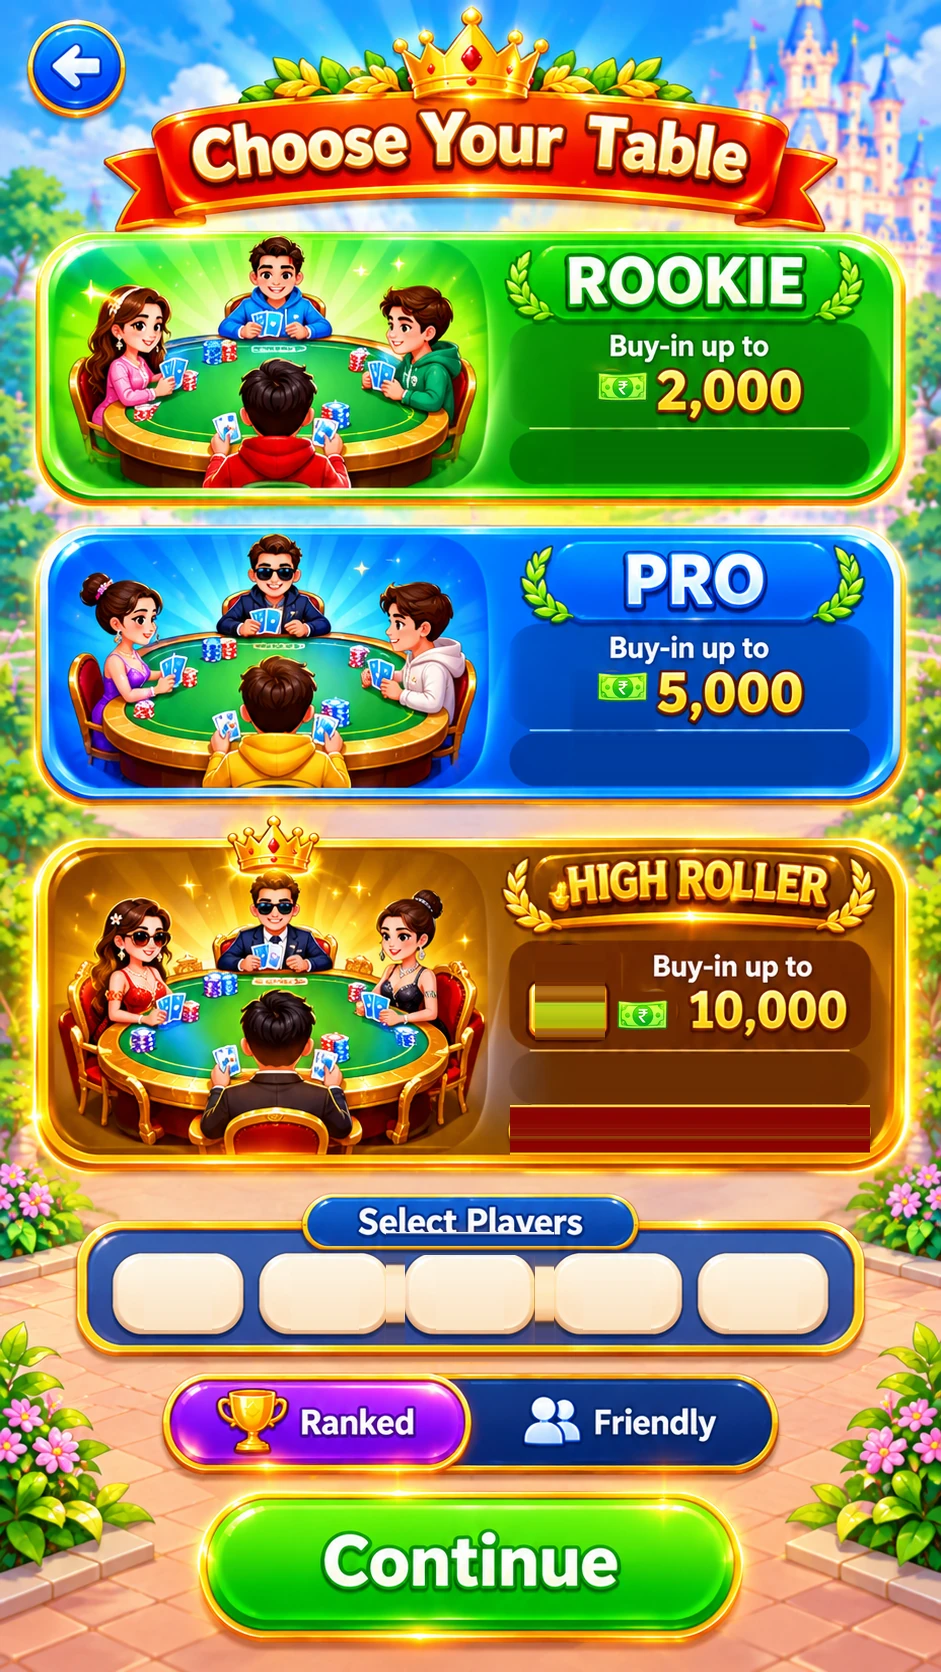
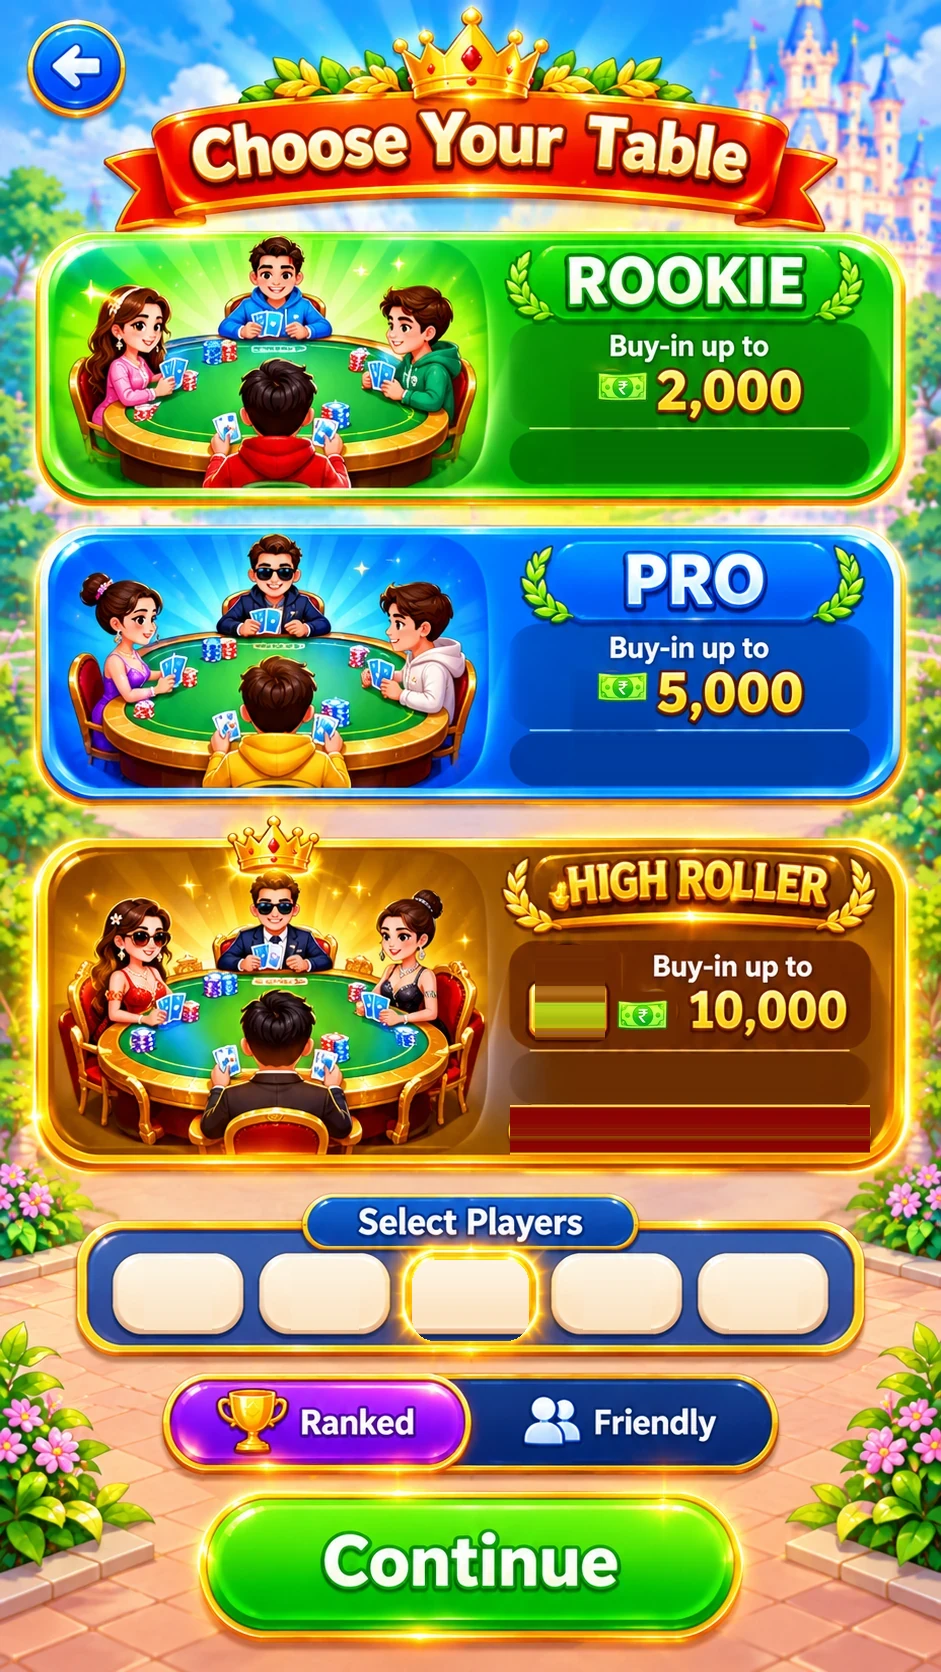
Cover scaling, clean player row, pro pill below the count

Changed region(s): [[0.4006, 0.7153, 0.5855, 0.8397]]

diff --git a/index.html b/index.html
@@ -100,7 +100,7 @@ input[type=range]::-moz-range-thumb{width:26px;height:26px;border:3px solid #fff
 #gameScreen{padding:0 8px;gap:4px;
   background:
     linear-gradient(180deg,rgba(255,255,255,.42) 0%,rgba(214,244,255,.30) 40%,rgba(200,240,200,.42) 100%),
-    url('assets/tablebg.webp?v=16') center/cover no-repeat fixed}
+    url('assets/tablebg.webp?v=17') center/cover no-repeat fixed}
 
 .topbar{display:flex;align-items:center;gap:8px;padding:8px 0 2px}
 .topbar .icon{
@@ -252,7 +252,7 @@ input[type=range]::-moz-range-thumb{width:26px;height:26px;border:3px solid #fff
 .hand .card.sel{
   border-color:#63e06b;box-shadow:0 0 0 3px #63e06b,0 12px 22px rgba(0,0,0,.35);z-index:20!important;
 }
-.hand .card.ghost{background:url('assets/cardback.webp?v=16') center/cover;border-color:#fff}
+.hand .card.ghost{background:url('assets/cardback.webp?v=17') center/cover;border-color:#fff}
 
 /* ---------- action panel ---------- */
 .actionpanel{
@@ -394,7 +394,7 @@ input[type=range]::-moz-range-thumb{width:26px;height:26px;border:3px solid #fff
 .rcard.red .face.front{color:#d02a1e}
 .rcard .face.front .r{font-size:24px;line-height:1;font-family:Georgia,serif}
 .rcard .face.front .s{font-size:16px;line-height:1}
-.rcard .face.back{transform:rotateY(180deg);background:url('assets/cardback.webp?v=16') center/cover;border:2px solid #fff}
+.rcard .face.back{transform:rotateY(180deg);background:url('assets/cardback.webp?v=17') center/cover;border:2px solid #fff}
 .rcell.win .rcard .face.front{box-shadow:0 0 0 3px #63e06b,0 0 26px rgba(99,224,107,.9)}
 .rcell.win{animation:winglow 1.4s ease-in-out infinite alternate}
 @keyframes winglow{from{transform:scale(1)}to{transform:scale(1.05)}}
@@ -479,7 +479,7 @@ input[type=range]::-moz-range-thumb{width:26px;height:26px;border:3px solid #fff
 
 /* ================= SPLASH ================= */
 @font-face{font-family:'Baloo 2';font-style:normal;font-weight:400 800;font-display:swap;
-  src:url('assets/baloo.woff2?v=16') format('woff2')}
+  src:url('assets/baloo.woff2?v=17') format('woff2')}
 #splashScreen{font-family:'Baloo 2',system-ui,sans-serif}
 
 .splash{position:relative;height:100dvh;min-height:100dvh;width:100%;overflow:hidden;
@@ -553,11 +553,10 @@ input[type=range]::-moz-range-thumb{width:26px;height:26px;border:3px solid #fff
   transform-origin:bottom center;transform:translateX(-50%);
   font-family:'Baloo 2',system-ui,sans-serif}
 .hs-bg{position:absolute;inset:0;width:941px;height:1672px;display:block}
-.hs-skyext{position:absolute;left:0;right:0;bottom:1670px;height:900px;z-index:0;
-  background:url('assets/home/sky-top.webp?v=16') center bottom/100% 100% no-repeat}
+.hs-skyext{display:none}
 
 .hs-crop{position:absolute;background-repeat:no-repeat;background-size:941px 1672px;
-  background-image:url('assets/home/home-base.webp?v=16');will-change:transform;z-index:2}
+  background-image:url('assets/home/home-base.webp?v=17');will-change:transform;z-index:2}
 .hs-char{left:345px;top:150px;width:267px;height:585px;background-position:-345px -150px;
   animation:hsBob 3s ease-in-out infinite}
 @keyframes hsBob{0%,100%{transform:translateY(0)}50%{transform:translateY(-3px)}}
@@ -654,14 +653,14 @@ input[type=range]::-moz-range-thumb{width:26px;height:26px;border:3px solid #fff
 .ts-count img{width:47px;height:36px;display:block}
 .ts-count span{font-size:31px;line-height:1;white-space:nowrap;text-shadow:0 2px 3px rgba(0,0,0,.45)}
 #cnt0{top:440px}
-#cnt1{top:720px}
+#cnt1{top:700px}
 #cnt2{top:1062px}
 
 .ts-outline{position:absolute;z-index:3;border-radius:46px;pointer-events:none;opacity:0;
   box-shadow:0 0 0 8px #ffd23f,0 0 34px 10px rgba(255,210,63,.75);
   transition:opacity .15s,left .18s,top .18s,height .18s}
 .ts-outline.on{opacity:1;animation:tsPulse 1.4s ease-in-out infinite}
-.ts-skyext{background-image:url('assets/ts/sky-top.webp?v=16')}
+.ts-skyext{background-image:url('assets/ts/sky-top.webp?v=17')}
 @keyframes tsPulse{0%,100%{box-shadow:0 0 0 8px #ffd23f,0 0 26px 6px rgba(255,210,63,.55)}
 50%{box-shadow:0 0 0 10px #ffe98a,0 0 44px 14px rgba(255,210,63,.95)}}
 
@@ -673,7 +672,7 @@ input[type=range]::-moz-range-thumb{width:26px;height:26px;border:3px solid #fff
 .ts-prolock.on{display:flex}
 .ts-prolock::before{content:"";position:absolute;inset:0;background:rgba(8,16,40,.35);border-radius:46px}
 .ts-prolock img{position:absolute;left:505px;top:92px;width:66px;height:72px;filter:drop-shadow(0 3px 5px rgba(0,0,0,.4))}
-.ts-prolock span{position:absolute;left:470px;top:223px;width:360px;height:40px;border-radius:25px;
+.ts-prolock span{position:absolute;left:470px;top:224px;width:360px;height:38px;border-radius:25px;
   display:flex;align-items:center;justify-content:center;
   background:linear-gradient(180deg,#a8271a,#8b0201);border:2px solid #d9695a;color:#fff;
   font-family:'Baloo 2',system-ui,sans-serif;font-size:25px;font-weight:800;white-space:nowrap;
@@ -748,9 +747,9 @@ input[type=range]::-moz-range-thumb{width:26px;height:26px;border:3px solid #fff
 
   <!-- ============ SPLASH / LOGIN ============ -->
   <section id="splashScreen" class="screen splash">
-    <img class="splash-bg" src="assets/bg-garden.webp?v=16" alt="">
+    <img class="splash-bg" src="assets/bg-garden.webp?v=17" alt="">
     <div class="floaties" id="floaties" aria-hidden="true"></div>
-    <img class="splash-logo" src="assets/logo.webp?v=16" alt="Game of Wealth">
+    <img class="splash-logo" src="assets/logo.webp?v=17" alt="Game of Wealth">
 
     <div class="splash-bottom">
       <div class="splash-actions" id="splashActions">
@@ -786,7 +785,7 @@ input[type=range]::-moz-range-thumb{width:26px;height:26px;border:3px solid #fff
     <div class="hs-wrap" id="hsWrap">
       <div class="hs-stage" id="hsStage">
         <div class="hs-skyext"></div>
-        <img class="hs-bg" src="assets/home/home-base.webp?v=16" alt="">
+        <img class="hs-bg" src="assets/home/home-base.webp?v=17" alt="">
         <div class="hs-crop hs-char" id="hsChar"></div>
         <div class="hs-crop hs-play" id="hsPlay"></div>
         <div class="hs-shimmer"></div>
@@ -822,27 +821,27 @@ input[type=range]::-moz-range-thumb{width:26px;height:26px;border:3px solid #fff
     <div class="hs-wrap">
       <div class="hs-stage" id="tsStage">
         <div class="hs-skyext ts-skyext"></div>
-        <img class="hs-bg" id="tsBg" src="assets/ts/ts-locked.webp?v=16" alt="">
+        <img class="hs-bg" id="tsBg" src="assets/ts/ts-locked.webp?v=17" alt="">
 
         <div class="ts-outline" id="tsOutline"></div>
 
-        <div class="ts-count" id="cnt0"><img src="assets/ts/people.webp?v=16" alt=""><span>128 playing</span></div>
-        <div class="ts-count" id="cnt1"><img src="assets/ts/people.webp?v=16" alt=""><span>64 playing</span></div>
-        <div class="ts-count" id="cnt2"><img src="assets/ts/people.webp?v=16" alt=""><span>12 playing</span></div>
+        <div class="ts-count" id="cnt0"><img src="assets/ts/people.webp?v=17" alt=""><span>128 playing</span></div>
+        <div class="ts-count" id="cnt1"><img src="assets/ts/people.webp?v=17" alt=""><span>64 playing</span></div>
+        <div class="ts-count" id="cnt2"><img src="assets/ts/people.webp?v=17" alt=""><span>12 playing</span></div>
 
         <div class="ts-dim" id="tsRankedDim"></div>
         <div class="ts-prolock" id="tsProLock">
-          <img src="assets/ic-lock.webp?v=16" alt="">
+          <img src="assets/ic-lock.webp?v=17" alt="">
           <span>Need 5,000 cash</span>
         </div>
 
 
         <div class="pn-hl" id="pnHl"></div>
-        <button class="pn" data-n="2" style="left:113px;width:130px"><img class="pn-bg" src="assets/ts/pbtn-cream.webp?v=16" alt=""><span>2</span></button>
-        <button class="pn" data-n="3" style="left:260px;width:130px"><img class="pn-bg" src="assets/ts/pbtn-cream.webp?v=16" alt=""><span>3</span></button>
-        <button class="pn" data-n="4" style="left:405px;width:130px"><img class="pn-bg" src="assets/ts/pbtn-cream.webp?v=16" alt=""><span>4</span></button>
-        <button class="pn" data-n="5" style="left:552px;width:130px"><img class="pn-bg" src="assets/ts/pbtn-cream.webp?v=16" alt=""><span>5</span></button>
-        <button class="pn" data-n="6" style="left:698px;width:130px"><img class="pn-bg" src="assets/ts/pbtn-cream.webp?v=16" alt=""><span>6</span></button>
+        <button class="pn" data-n="2" style="left:113px;width:130px"><img class="pn-bg" src="assets/ts/pbtn-cream.webp?v=17" alt=""><span>2</span></button>
+        <button class="pn" data-n="3" style="left:260px;width:130px"><img class="pn-bg" src="assets/ts/pbtn-cream.webp?v=17" alt=""><span>3</span></button>
+        <button class="pn" data-n="4" style="left:405px;width:130px"><img class="pn-bg" src="assets/ts/pbtn-cream.webp?v=17" alt=""><span>4</span></button>
+        <button class="pn" data-n="5" style="left:552px;width:130px"><img class="pn-bg" src="assets/ts/pbtn-cream.webp?v=17" alt=""><span>5</span></button>
+        <button class="pn" data-n="6" style="left:698px;width:130px"><img class="pn-bg" src="assets/ts/pbtn-cream.webp?v=17" alt=""><span>6</span></button>
 
         <button class="ts-tap t2-back" id="ts-back" aria-label="Back"></button>
         <button class="ts-tap t2-rookie" id="ts-rookie" aria-label="Rookie"></button>
@@ -857,7 +856,7 @@ input[type=range]::-moz-range-thumb{width:26px;height:26px;border:3px solid #fff
     <!-- buy-in sheet -->
     <div class="bi-overlay" id="biOverlay" hidden>
       <div class="bi-sheet" id="biSheet">
-        <img class="bi-img" src="assets/ts/buyin.webp?v=16" alt="">
+        <img class="bi-img" src="assets/ts/buyin.webp?v=17" alt="">
         <span class="bi-amount" id="biAmount">2,000</span>
         <div class="bi-track" id="biTrack"><i id="biFill"></i><b id="biKnob"></b></div>
         <div class="bi-wallet" id="biWallet">Wallet: 2,000 &rarr; 0 after</div>
@@ -1894,7 +1893,7 @@ const Bots = (function () {
   }
 
   function fitHome() {
-    const s = Math.min(window.innerWidth / 941, window.innerHeight / 1672);
+    const s = Math.max(window.innerWidth / 941, window.innerHeight / 1672);
     ['hsStage', 'tsStage'].forEach(function (id) {
       const st = $(id);
       if (st) st.style.transform = 'translateX(-50%) scale(' + s + ')';
@@ -3070,7 +3069,7 @@ const Bots = (function () {
     const wrap = $('floaties');
     if (!wrap) return;
     wrap.innerHTML = '';
-    const kinds = ['assets/ic-cash1.webp?v=16', 'assets/ic-gold1.webp?v=16'];
+    const kinds = ['assets/ic-cash1.webp?v=17', 'assets/ic-gold1.webp?v=17'];
     for (let i = 0; i < 8; i++) {
       const img = document.createElement('img');
       img.className = 'flimg';
@@ -3150,7 +3149,7 @@ const Bots = (function () {
 
   function renderTableSelect() {
     const wallet = PROFILE.cash;
-    $('tsBg').src = wallet >= 10000 ? 'assets/ts/ts-unlocked.webp?v=16' : 'assets/ts/ts-locked.webp?v=16';
+    $('tsBg').src = wallet >= 10000 ? 'assets/ts/ts-unlocked.webp?v=17' : 'assets/ts/ts-locked.webp?v=17';
     setCounts();
 
     const t = TIERS[TS.tier];
@@ -3326,7 +3325,7 @@ const Bots = (function () {
 </script>
 <script>
 if ('serviceWorker' in navigator) {
-  window.addEventListener('load', function () { navigator.serviceWorker.register('./sw.js?v=16').catch(function(){}); });
+  window.addEventListener('load', function () { navigator.serviceWorker.register('./sw.js?v=17').catch(function(){}); });
 }
 </script>
 </body>

diff --git a/sw.js b/sw.js
@@ -1,7 +1,7 @@
 /* Game of Wealth - offline shell.
    Network-first for everything so a deploy is visible on the next load;
    the cache is only used when the network fails. */
-const CACHE = 'gow-v16';
+const CACHE = 'gow-v17';
 const ASSETS = ['./', './index.html', './manifest.json', './icon.svg'];
 
 self.addEventListener('install', (e) => {
